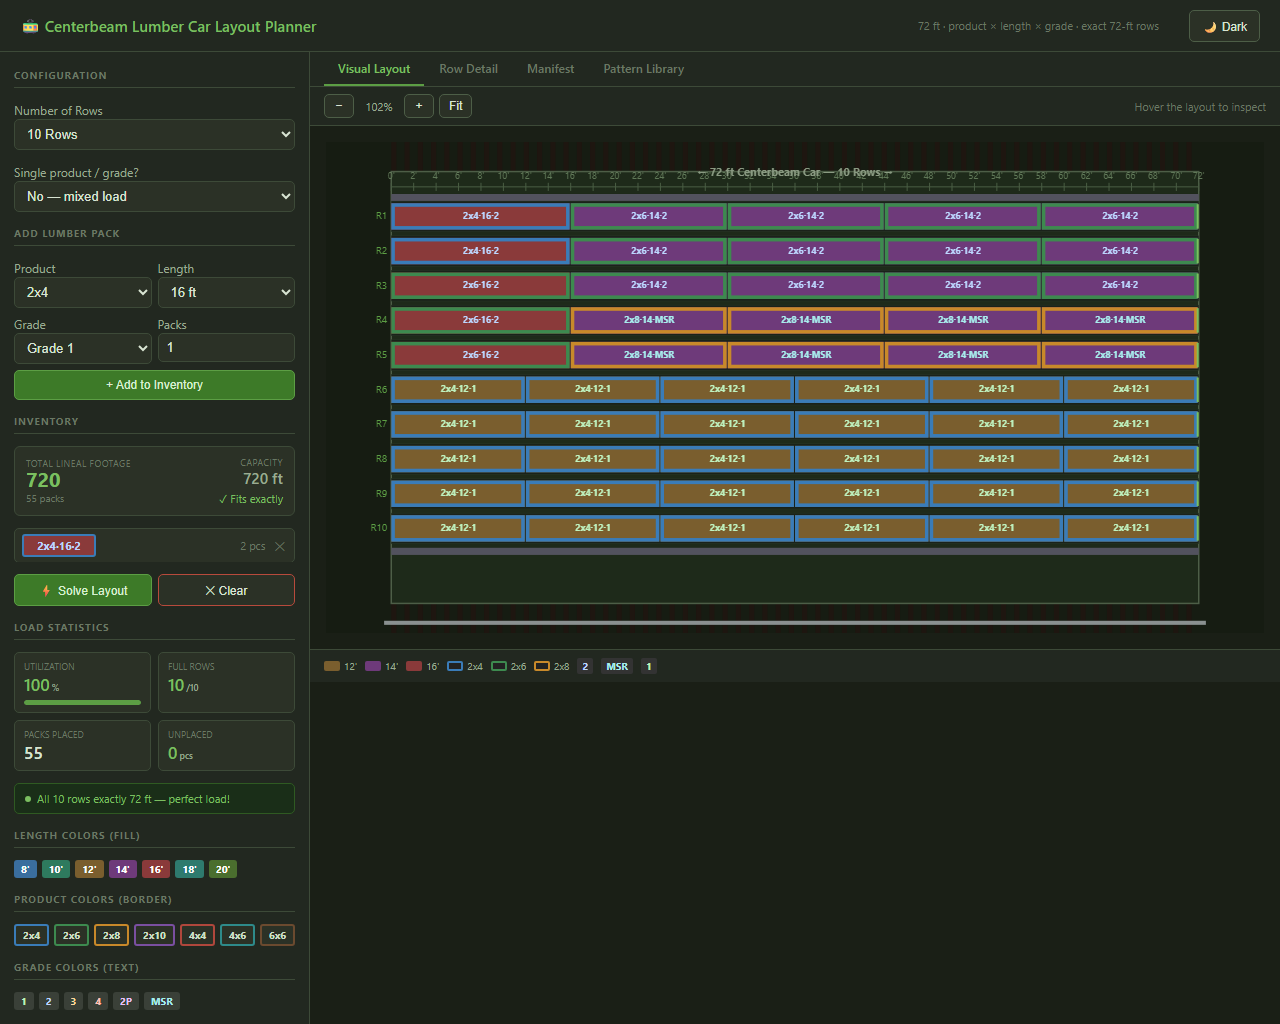
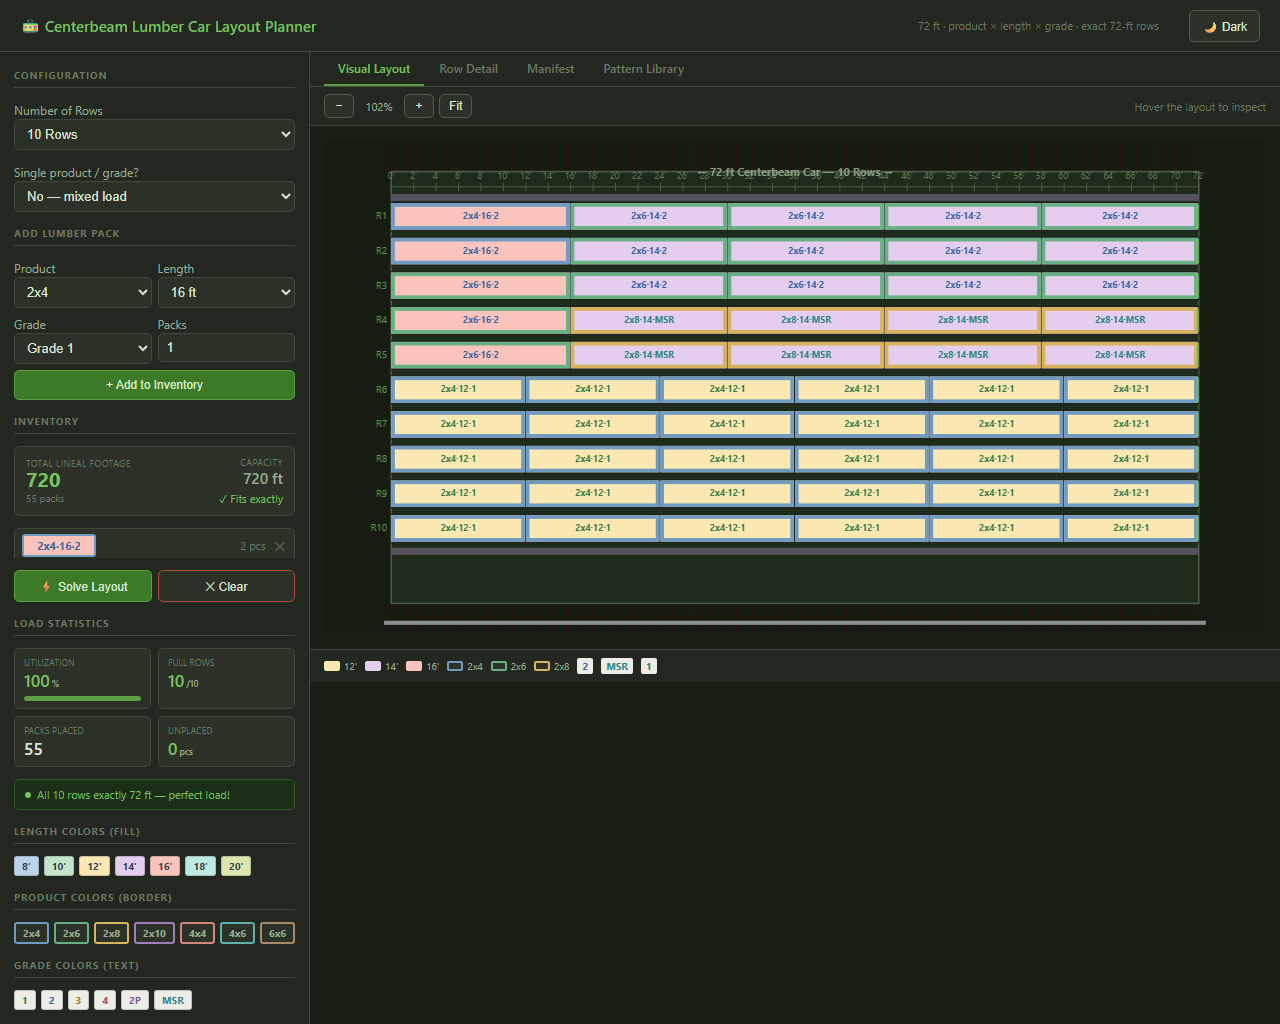
Apply Sorbet pastel palette across all three apps
Switch the shared color scheme (length = fill, product = border, grade = text)
to the muted/pastel "Sorbet" palette. Because fills go from dark to light,
grade and label text flips from light to dark for readability.

- HTML: new LCOLORS/PCOLORS/GCOLORS/GFONT plus a dark INK for labels; fix the
  legends, manifest summaries, pick list, and pattern library that assumed dark
  fills so text stays readable on light pastels.
- xlsx + xlsm: recolor the grid conditional-formatting rules (length fill /
  product border / grade font), the bottom legend, the Manifest, and the
  statically colored Pattern Library; darken text that sat on now-light fills.
  Macros preserved in the .xlsm (vbaProject.bin intact, buttons on Planner).
- README: refresh both screenshots, note the pastel palette, and fix the
  Solve/Clear button location (Planner sheet).

diff --git a/centerbeam_layout_planner.html b/centerbeam_layout_planner.html
@@ -62,7 +62,7 @@
   .alert.bad{background:var(--alert-bad-bg);border:1px solid var(--alert-bad-bd);color:var(--red2)}
   .adot{width:6px;height:6px;border-radius:50%;background:currentColor;flex-shrink:0}
   .legend{display:flex;flex-wrap:wrap;gap:5px}
-  .lswatch{font-size:10px;font-weight:700;color:#fff;padding:2px 7px;border-radius:3px}
+  .lswatch{font-size:10px;font-weight:700;color:#33414f;padding:2px 7px;border-radius:3px;border:0.5px solid rgba(120,120,120,.35)}
   .lgrade{font-size:10px;font-weight:700;padding:2px 7px;border-radius:3px;background:var(--bg3);border:2px solid}
   .main{display:flex;flex-direction:column;overflow:hidden}
   .tabbar{display:flex;gap:1px;padding:0 14px;background:var(--bg2);border-bottom:1px solid var(--border)}
@@ -213,12 +213,13 @@ const TARGET=72, MAX_SLOTS=9;
 const PRODUCTS=["2x4","2x6","2x8","2x10","4x4","4x6","6x6"];
 const LENGTHS=[8,10,12,14,16,18,20];
 const GRADES=["1","2","3","4","2P","MSR"];
-const PCOLORS={"2x4":"#3A7CB8","2x6":"#3D8A4F","2x8":"#C8892A","2x10":"#7A4FA0","4x4":"#B0473C","4x6":"#2E8A8A","6x6":"#6B4A2F"};
-const GCOLORS={"1":"#1A7A1A","2":"#2A5AAA","3":"#D08020","4":"#C03020","2P":"#7A3AA0","MSR":"#0A8A8A"};
-const LCOLORS={8:"#3A6E9E",10:"#2E7A5E",12:"#7A5E2E",14:"#6E3A7A",16:"#8A3A3A",18:"#2E7A6E",20:"#4A6E2E"};
-// Color hierarchy: LENGTH = primary (fill), PRODUCT = secondary (thick border), GRADE = tertiary (text color).
-// GFONT = light grade tints, readable as text on the dark length fills.
-const GFONT={"1":"#BFF2BF","2":"#BDD7FF","3":"#FFD79E","4":"#FFC0B8","2P":"#E6C2FA","MSR":"#A8EEEE"};
+const PCOLORS={"2x4":"#6F9AC4","2x6":"#66B083","2x8":"#D9B25C","2x10":"#A07EBE","4x4":"#D6857A","4x6":"#5FB3AC","6x6":"#A98A66"};
+const GCOLORS={"1":"#357A48","2":"#3A66A0","3":"#B06A16","4":"#B5453A","2P":"#7E4FA6","MSR":"#2A8585"};
+const LCOLORS={8:"#BBD4EA",10:"#C2E5C9",12:"#FBE7B2",14:"#E5CDEE",16:"#FAC4BC",18:"#BFEAE0",20:"#DCE7AE"};
+// Sorbet palette: LENGTH = light pastel fill, PRODUCT = thick border, GRADE = text color.
+// Fills are light, so GFONT uses the darker grade tones for readable text on the fills.
+const GFONT={"1":"#357A48","2":"#3A66A0","3":"#B06A16","4":"#B5453A","2P":"#7E4FA6","MSR":"#2A8585"};
+const INK="#33414f";
 // Canvas "chrome" palette per theme (data colors LCOLORS/PCOLORS/GFONT stay the same in both).
 const CV_THEME={
   dark:{bg:"#161c12",tie:"#1e1610",deck:"#1e2a1a",deckStroke:"#4d5e47",rail:"#52525e",rowBg:"#1a221a",rowStroke:"#2a3828",lblExact:"#5c9e44",lblOver:"#b84a3c",lblNorm:"#4a5e44",emptyFill:"rgba(255,255,255,.03)",emptyText:"#3a4a38",exactMark:"#7bbf60",shortText:"#c8892a",bottomRail:"#8a9090",rulerLine:"#4a5e44",tickText:"#607858",titleText:"#8a9a82"},
@@ -405,8 +406,8 @@ function renderStats(){
 }
 function buildLegends(){
   document.getElementById("legendLength").innerHTML=LENGTHS.map(L=>`<span class="lswatch" style="background:${LCOLORS[L]}">${L}'</span>`).join("");
-  document.getElementById("legendProduct").innerHTML=PRODUCTS.map(p=>`<span class="lgrade" style="border-color:${PCOLORS[p]};color:#cfe0c8;background:#2b3126">${p}</span>`).join("");
-  document.getElementById("legendGrade").innerHTML=GRADES.map(g=>`<span class="lswatch" style="background:#3a4038;color:${GFONT[g]}">${g}</span>`).join("");
+  document.getElementById("legendProduct").innerHTML=PRODUCTS.map(p=>`<span class="lgrade" style="border-color:${PCOLORS[p]};color:var(--text2);background:var(--bg3)">${p}</span>`).join("");
+  document.getElementById("legendGrade").innerHTML=GRADES.map(g=>`<span class="lswatch" style="background:#ebede6;color:${GFONT[g]}">${g}</span>`).join("");
 }
 
 // ---------- canvas ----------
@@ -461,8 +462,8 @@ function render(){
   state.rows.forEach(r=>r.forEach(c=>{uL.add(c.length);uP.add(c.product);uG.add(c.grade);}));
   let lh="";
   [...uL].sort((a,b)=>a-b).forEach(L=>lh+=`<span class="li"><span class="lib" style="background:${LCOLORS[L]}"></span>${L}'</span>`);
-  [...uP].forEach(p=>lh+=`<span class="li"><span class="lib" style="background:#222;border:2.5px solid ${PCOLORS[p]}"></span>${p}</span>`);
-  [...uG].forEach(g=>lh+=`<span class="li"><span style="color:${GFONT[g]};background:#333;padding:1px 5px;border-radius:2px;font-weight:700">${g}</span></span>`);
+  [...uP].forEach(p=>lh+=`<span class="li"><span class="lib" style="background:var(--bg3);border:2.5px solid ${PCOLORS[p]}"></span>${p}</span>`);
+  [...uG].forEach(g=>lh+=`<span class="li"><span style="color:${GFONT[g]};background:#ebede6;padding:1px 5px;border-radius:2px;font-weight:700">${g}</span></span>`);
   document.getElementById("legendBar").innerHTML=lh||'<span class="muted" style="font-size:10px">No load yet</span>';
 }
 function zoom(d){ state.zoom=Math.max(.2,Math.min(4,state.zoom+d*0.15)); document.getElementById("zoomLabel").textContent=Math.round(state.zoom*100)+"%"; render(); }
@@ -527,18 +528,18 @@ function renderManifest(){
   const sp=placedSummaryProduct(), sg=placedSummaryGrade();
   h+=`<div class="twocol">`;
   h+=`<div><div class="secttitle">Summary by Product</div><table class="t"><thead><tr><th>Product</th><th>Packs</th><th>Lineal Ft</th></tr></thead><tbody>`;
-  PRODUCTS.forEach(p=>{ if(sp[p].packs) h+=`<tr><td class="cell-pack" style="border-color:${PCOLORS[p]};color:#cfe0c8;background:#2b3126">${p}</td><td>${sp[p].packs}</td><td>${sp[p].lf}</td></tr>`; });
+  PRODUCTS.forEach(p=>{ if(sp[p].packs) h+=`<tr><td class="cell-pack" style="border-color:${PCOLORS[p]};color:var(--text2);background:var(--bg3)">${p}</td><td>${sp[p].packs}</td><td>${sp[p].lf}</td></tr>`; });
   h+=`</tbody></table></div>`;
   h+=`<div><div class="secttitle">Summary by Grade</div><table class="t"><thead><tr><th>Grade</th><th>Packs</th><th>Lineal Ft</th></tr></thead><tbody>`;
-  GRADES.forEach(g=>{ if(sg[g].packs) h+=`<tr><td style="font-weight:700;color:${GFONT[g]};background:#333">${g}</td><td>${sg[g].packs}</td><td>${sg[g].lf}</td></tr>`; });
+  GRADES.forEach(g=>{ if(sg[g].packs) h+=`<tr><td style="font-weight:700;color:${GFONT[g]};background:#ebede6">${g}</td><td>${sg[g].packs}</td><td>${sg[g].lf}</td></tr>`; });
   h+=`</tbody></table></div></div>`;
   const pl=pickList();
   h+=`<div class="secttitle">Pick List — packs to pull for this car</div>`;
   h+=`<table class="t"><thead><tr><th>#</th><th>Product</th><th>Length</th><th>Grade</th><th>Packs to Pick</th></tr></thead><tbody>`;
   pl.forEach((c,i)=>{ h+=`<tr><td>${i+1}</td>
-    <td class="cell-pack" style="border-color:${PCOLORS[c.product]};color:#cfe0c8;background:#2b3126">${c.product}</td>
-    <td style="color:#fff;background:${LCOLORS[c.length]};font-weight:700">${c.length} ft</td>
-    <td style="font-weight:700;color:${GFONT[c.grade]};background:#333">${c.grade}</td>
+    <td class="cell-pack" style="border-color:${PCOLORS[c.product]};color:var(--text2);background:var(--bg3)">${c.product}</td>
+    <td style="color:${INK};background:${LCOLORS[c.length]};font-weight:700">${c.length} ft</td>
+    <td style="font-weight:700;color:${GFONT[c.grade]};background:#ebede6">${c.grade}</td>
     <td style="font-weight:700">${c.packs}</td></tr>`; });
   const tot=pl.reduce((s,c)=>s+c.packs,0);
   h+=`<tr><td colspan="4" style="font-weight:700;text-align:right">TOTAL</td><td style="font-weight:700">${tot}</td></tr></tbody></table>`;
@@ -552,11 +553,11 @@ function renderPatterns(){
   pats.sort((a,b)=>{ if(a.length!==b.length) return a.length-b.length; return cmpRows(a,b); });
   let h=`<div class="secttitle">Valid 72‑ft Length Patterns (color‑coded by length)</div>`;
   h+=`<table class="t"><thead><tr><th>#</th><th>Lengths</th>`;
-  LENGTHS.forEach(L=>h+=`<th style="background:${LCOLORS[L]};color:#fff">${L}'</th>`);
+  LENGTHS.forEach(L=>h+=`<th style="background:${LCOLORS[L]};color:${INK}">${L}'</th>`);
   h+=`<th>Total</th></tr></thead><tbody>`;
   pats.forEach((p,i)=>{ const cnt={}; p.forEach(x=>cnt[x]=(cnt[x]||0)+1);
     h+=`<tr><td>${i+1}</td><td style="text-align:left">${p.join("  ")}</td>`;
-    LENGTHS.forEach(L=>{ const v=cnt[L]||0; h+=`<td style="${v?`background:${LCOLORS[L]};color:#fff;font-weight:700`:""}">${v||""}</td>`; });
+    LENGTHS.forEach(L=>{ const v=cnt[L]||0; h+=`<td style="${v?`background:${LCOLORS[L]};color:${INK};font-weight:700`:""}">${v||""}</td>`; });
     h+=`<td style="font-weight:700">72</td></tr>`; });
   h+=`</tbody></table>`;
   document.getElementById("patterns").innerHTML=h;

diff --git a/README.md b/README.md
@@ -105,7 +105,7 @@ troubleshooting. The `.xlsx` copy is tailored to the macro‑free edition.
 
 ## One‑click Solve / Clear buttons (macros)
 
-The `.xlsm` has three buttons wired up on the **Auto‑Solve (VBA)** sheet — just open it
+The `.xlsm` has three buttons wired up on the **Planner** sheet — just open it
 and click **Enable Content**:
 
 - **Solve Layout** — reads the line‑item inventory, fills every selected row to 72 ft, and
@@ -176,9 +176,11 @@ the original build environment — adjust the input/output paths to your setup.)
 
 ---
 
-*Color key — Length (fill):* each of 8 · 10 · 12 · 14 · 16 · 18 · 20 ft has its own color
-*Color key — Product (border):* 2x4 blue · 2x6 green · 2x8 amber · 2x10 purple · 4x4 red · 4x6 teal · 6x6 brown
-*Color key — Grade (text):* 1 green · 2 blue · 3 orange · 4 red · 2P purple · MSR teal
+The apps use a soft **pastel / muted ("Sorbet")** palette — light fills with darker, readable text.
+
+*Color key — Length (fill):* each of 8 · 10 · 12 · 14 · 16 · 18 · 20 ft has its own pastel fill
+*Color key — Product (border):* 2x4 blue · 2x6 green · 2x8 gold · 2x10 violet · 4x4 coral · 4x6 teal · 6x6 taupe
+*Color key — Grade (text):* 1 green · 2 blue · 3 amber · 4 red · 2P purple · MSR teal
 
 ---
 